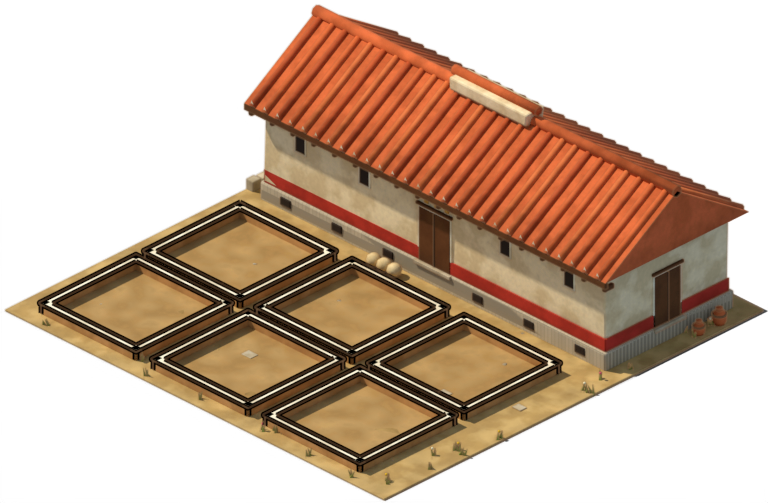
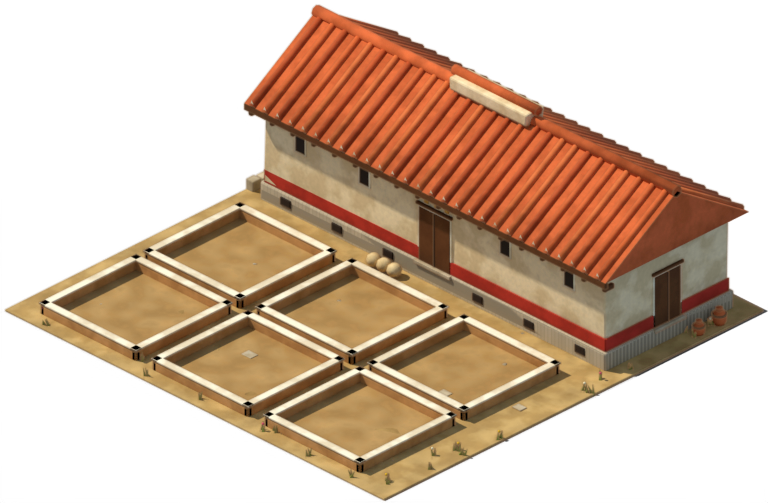
Grenier et entrepôt : contour noir sur les marchandises seulement, plus sur les cases
Claude-Session: https://claude.ai/code/session_012k6Ew1QdeaSp1xGznCLvWi

Changed region(s): [[0.0312, 0.3877, 0.75, 0.9245]]

diff --git a/tools/art/storage.py b/tools/art/storage.py
@@ -76,9 +76,9 @@ def wheat(cx, cy, lv, rnd):
     """Tas de blé doré qui monte, puis des sacs autour quand le coffre déborde."""
     m = M("ble_tas", color="wheat", noise=0.22, scale=30, bump=0.4)
     r = 0.14 + 0.05 * lv
-    blob(cx, cy, 0.012, r, m, seed=lv, sz=0.03 + 0.035 * lv, lumps=0.15)
+    blob(cx, cy, 0.04, r, m, seed=lv, sz=0.03 + 0.035 * lv, lumps=0.15)
     if lv >= 2:
-        blob(cx - 0.12, cy + 0.08, 0.012, r * 0.55, m, seed=lv + 9, sz=0.02 + 0.02 * lv, lumps=0.15)
+        blob(cx - 0.12, cy + 0.08, 0.035, r * 0.55, m, seed=lv + 9, sz=0.02 + 0.02 * lv, lumps=0.15)
     if lv >= 3:
         sac = M("sac", color="#d8c39a", noise=0.12, bump=0.3)
         for (x, y) in ((cx + 0.22, cy + 0.22), (cx + 0.1, cy + 0.25), (cx + 0.24, cy + 0.08))[: lv - 1]:
@@ -188,10 +188,8 @@ FILL = {"wheat": wheat, "fish": fish, "olives": olives, "oil": oil, "wool": wool
 # --------------------------------------------------------------------------- bâtiments
 
 def _bays(name):
-    before = set(bpy.context.scene.objects)
     for (cx, cy) in BAYS["buildings"][name]:
         BAY[name](cx, cy)
-    _black_outline([o for o in bpy.context.scene.objects if o not in before])
 
 
 def granary():
@@ -256,7 +254,7 @@ BUILDINGS["warehouse"] = (warehouse, 3)
 
 
 def _black_outline(objects):
-    """Contour noir épais autour des cases et de leurs marchandises : elles se détachent de la halle et du sol."""
+    """Contour noir épais autour des marchandises seules : elles ressortent des cases, de la halle et du sol."""
     col = bpy.data.collections.new("marchandises")
     bpy.context.scene.collection.children.link(col)
     for o in objects:
@@ -284,8 +282,8 @@ def goods_jobs():
         for res in resources:
             for lv in range(1, 5):
                 def scene(b=b, res=res, lv=lv):
-                    before = set(bpy.context.scene.objects)
                     BAY[b](0.5, 0.5)
+                    before = set(bpy.context.scene.objects)
                     FILL[res](0.5, 0.5, lv, random.Random(lv))
                     _black_outline([o for o in bpy.context.scene.objects if o not in before])
                 jobs.append(("%s_%s_%d" % (b, res, lv), scene))
